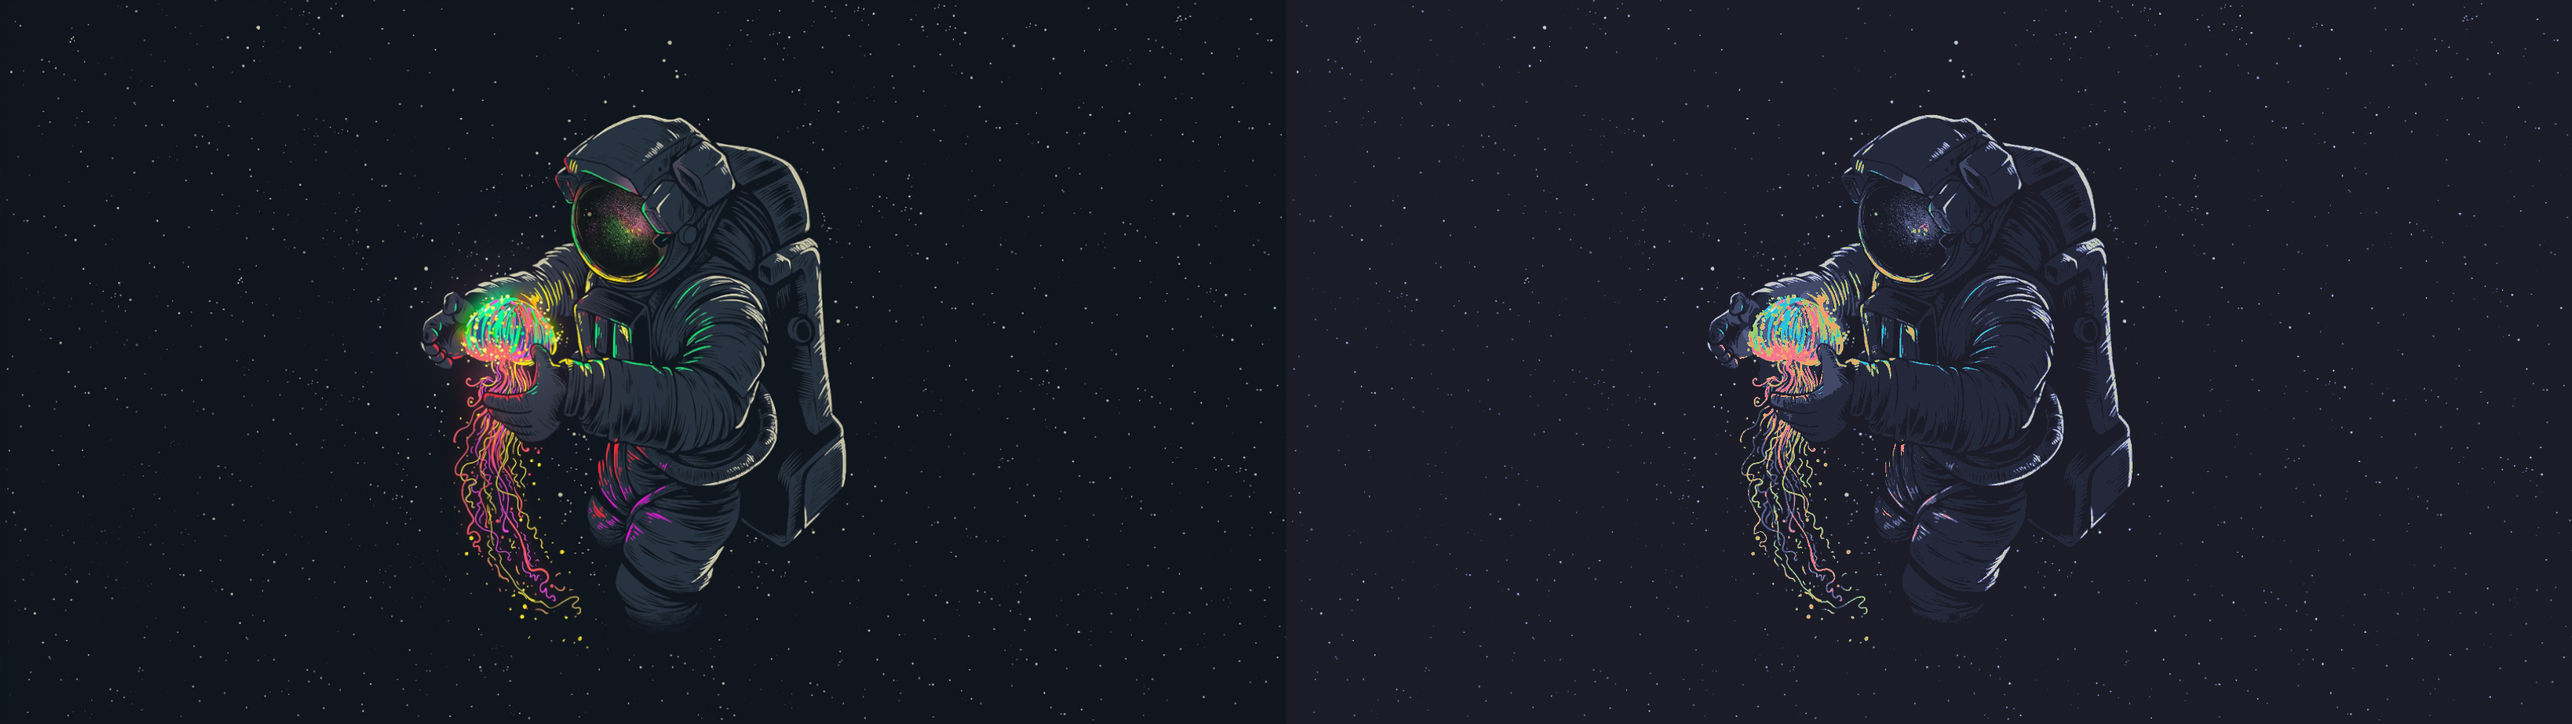
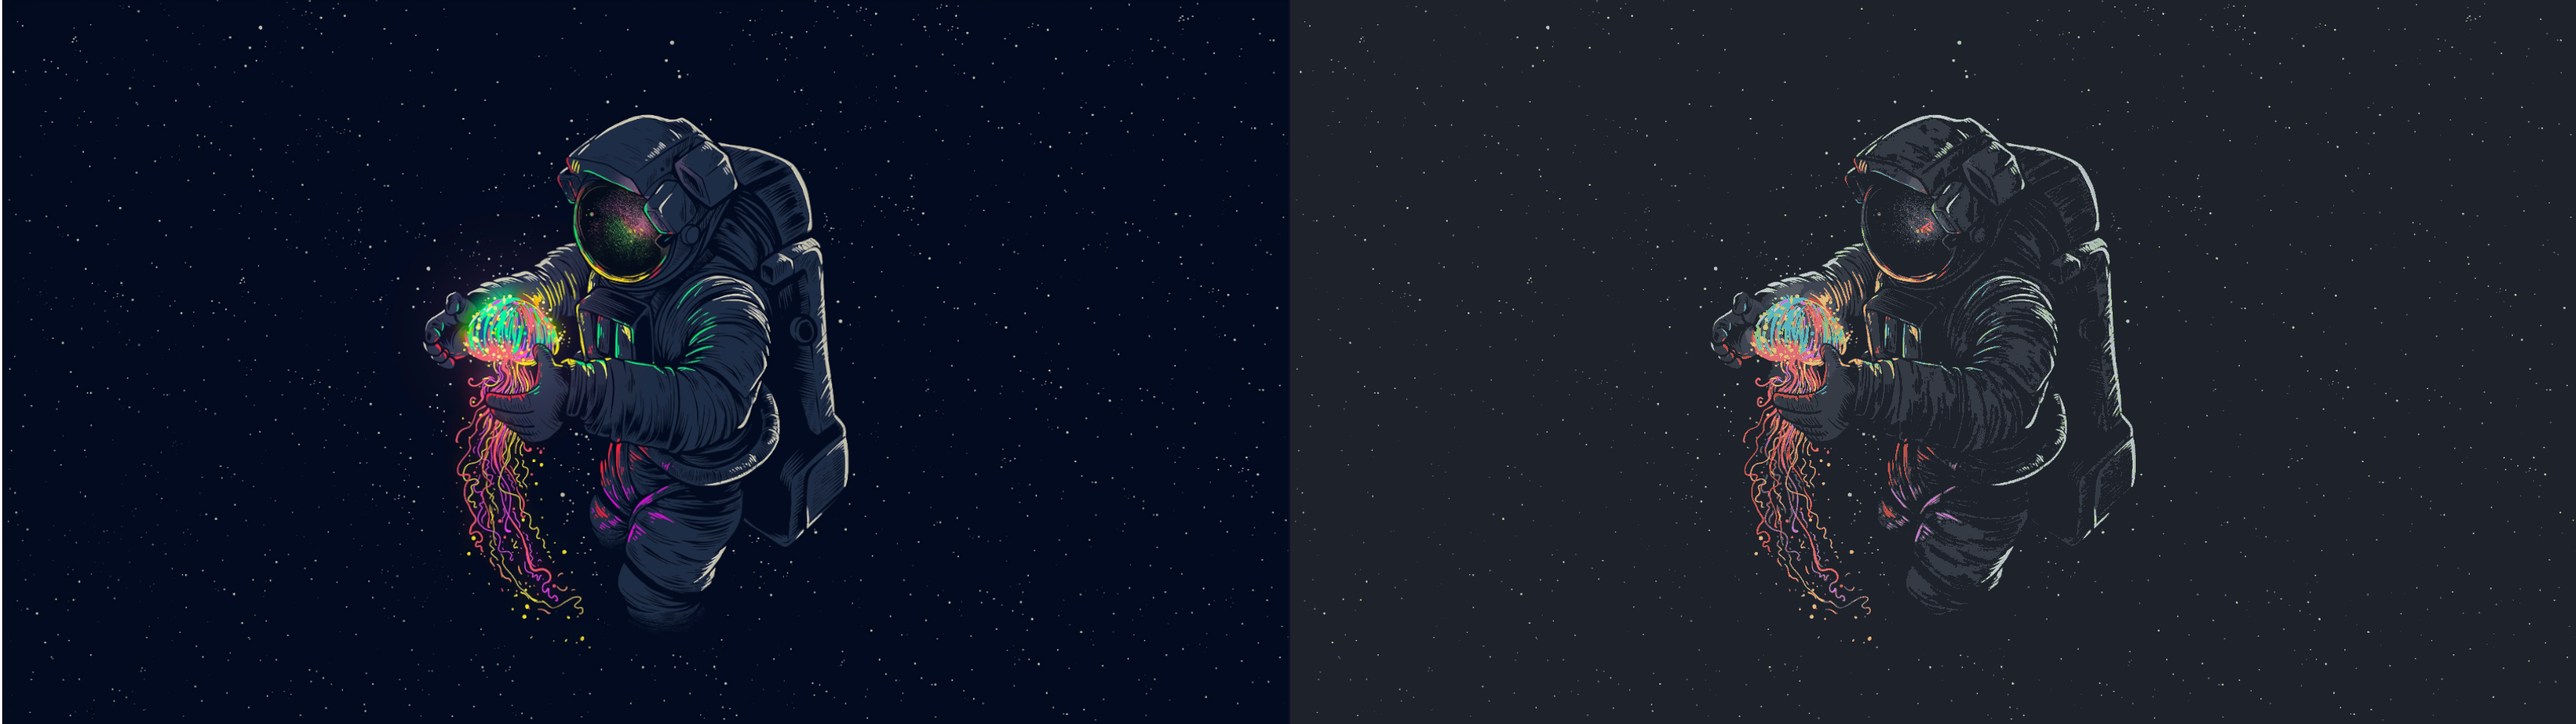
onedark-factory

diff --git a/conv.py b/conv.py
@@ -14,9 +14,9 @@ def main():
     signal.signal(signal.SIGINT, signal_handler)
     console = Console()
 
-    tn_factory = GoNord()
-    tn_factory.reset_palette()
-    add_tn_palette(tn_factory)
+    od_factory = GoNord()
+    od_factory.reset_palette()
+    add_od_palette(od_factory)
 
     # Checks if there's an argument
     if len(sys.argv) > 1:
@@ -26,7 +26,7 @@ def main():
 
     for image_path in image_paths:
         if os.path.isfile(image_path):
-            process_image(image_path, console, tn_factory)
+            process_image(image_path, console, od_factory)
         else:
             console.print(
                 f"❌ [red]We had a problem in the pipeline! \nThe image at '{image_path}' could not be found! \nSkipping... [/]"
@@ -36,7 +36,7 @@ def main():
 # Gets the file path from the Argument
 def fromCommandArgument(console):
     command_parser = argparse.ArgumentParser(
-        description="A simple cli to manufacture Tokyo Night themed wallpapers."
+        description="A simple cli to manufacture OneDark themed wallpapers."
     )
     command_parser.add_argument(
         "Path", metavar="path", nargs="+", type=str, help="The path(s) to the image(s)."
@@ -50,7 +50,7 @@ def fromTui(console):
 
     console.print(
         Panel(
-            "🏭 [bold magenta] Tokyo-Night Factory [/] 🏭", expand=False, border_style="magenta"
+            "🏭 [bold magenta] OneDark Factory [/] 🏭", expand=False, border_style="magenta"
         )
     )
 
@@ -61,25 +61,25 @@ def fromTui(console):
         ).split()
     ]
 
-def process_image(image_path, console, tn_factory):
-    image = tn_factory.open_image(image_path)
+def process_image(image_path, console, od_factory):
+    image = od_factory.open_image(image_path)
     
     console.print(f"🔨 [blue]manufacturing '{os.path.basename(image_path)}'...[/]")
 
     # TODO: might be a better idea to save the new Image in the same directory the command is being run from
     save_path = os.path.join(
-        os.path.dirname(image_path), "tn_" + os.path.basename(image_path)
+        os.path.dirname(image_path), "od_" + os.path.basename(image_path)
     )
 
-    tn_factory.convert_image(image, save_path=(save_path))
+    od_factory.convert_image(image, save_path=(save_path))
     console.print(f"✅ [bold green]Done![/] [green](saved at '{save_path}')[/]")
 
-def add_tn_palette(tn_factory):
+def add_od_palette(od_factory):
 
-    tnPalette = ["#16161E","#1a1b26","#24283b","#414868","#565f89","#cfc9c2","#9aa5ce","#a9b1d6","#c0caf5","#bb9af7","#7aa2f7","#7dcfff","#2ac3de","#b4f9f8","#9ece6a","#e0af68","#ff9e64","#f7768e"]
+    odPalette = ["#1e222a","#353b45","#3e4451","#545862","#565c64","#abb2bf","#b6bdca","#c8ccd4","#e06c75","#d19a66","#e5c07b","#98c379","#56b6c2","#61afef","#c678dd","#be5046"]
 
-    for color in tnPalette:
-        tn_factory.add_color_to_palette(color)
+    for color in odPalette:
+        od_factory.add_color_to_palette(color)
 
 ## handle CTRL + C
 def signal_handler(signal, frame):

diff --git a/README.md b/README.md
@@ -1,7 +1,7 @@
-# 🗼Tokyo Night Factory 🏭
-Forked from [nord-factory](https://github.com/13ace37/nord-factory) 😄
+# 🗼OnrDark Factory 🏭
+Forked from [tokyo-night-factory](https://github.com/rototrash/tokyo-night-factory) 😄
 
-A simple cli to convert any image to a tokyo-night themed wallpaper
+A simple cli to convert any image to a onedark themed wallpaper
 
 ![example](./example.png)
 
@@ -17,10 +17,9 @@ Go to the directory containing the `conv.py` script and run it using:
 python3 conv.py
 ```
 
- Then follow the on-screen instructions, and voila you'll have your tokyo-night themed image ready in no time!
+ Then follow the on-screen instructions, and voila you'll have your onedark themed image ready in no time!
 
 
  ## Credits
-- [Tokyo Night colorscheme by enkia](https://github.com/enkia/tokyo-night-vscode-theme)
-- **Made** with [Schrodinger-Hat's ImageGoNord](https://github.com/Schrodinger-Hat), but with the tokyo-night palette
+- **Made** with [Schrodinger-Hat's ImageGoNord](https://github.com/Schrodinger-Hat), but with the Onedark palette
 - **Text User Interface (TUI)** made with [rich](https://github.com/willmcgugan/rich)
